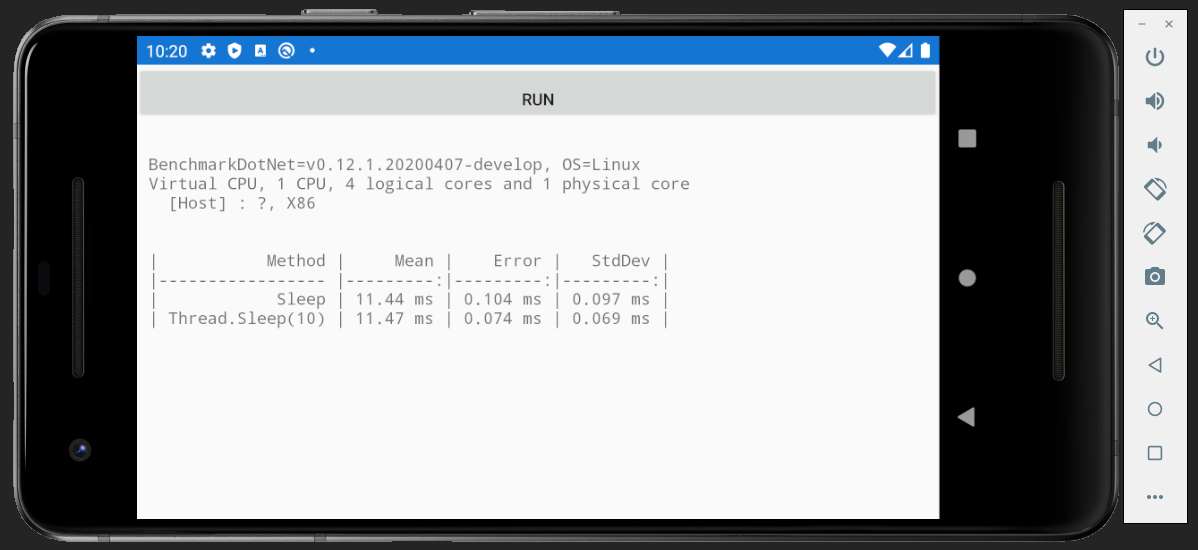
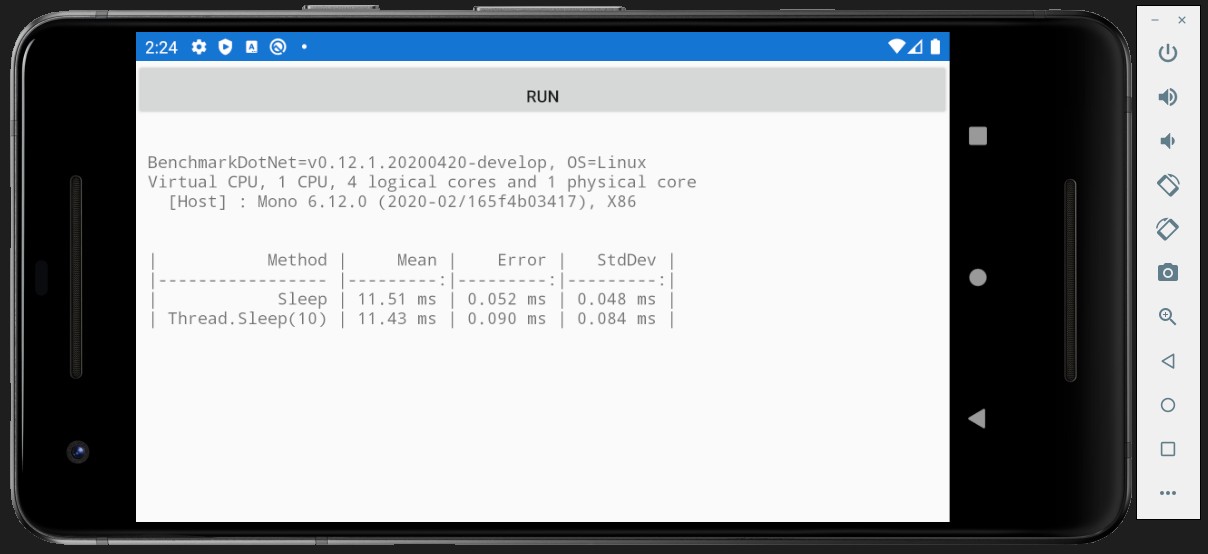
[xamarin] fix Mono runtime version detection (#1429)
Context: https://github.com/mono/mono/blob/0a37eeadece5c2cec8a6e1f43a94f0b323a22513/mcs/class/corlib/Mono/Runtime.cs#L68-L73

`Mono.Runtime.GetDisplayName` is `public` on Xamarin platforms, and so
we need to include `BindingFlags.Public` to call it via reflection.

I updated the screenshot in the documentation to reflect what the
value looks like running on Xamarin.Android in VS 2019 16.5.

I also took an attempt at fixing the documentation for Xamarin, I
think the link is just missing. Hopefully this URL will work now:

    https://benchmarkdotnet.org/articles/samples/IntroXamarin.html

diff --git a/src/BenchmarkDotNet/Portability/RuntimeInformation.cs b/src/BenchmarkDotNet/Portability/RuntimeInformation.cs
@@ -121,7 +121,7 @@ namespace BenchmarkDotNet.Portability
             if (IsMono)
             {
                 var monoRuntimeType = Type.GetType("Mono.Runtime");
-                var monoDisplayName = monoRuntimeType?.GetMethod("GetDisplayName", BindingFlags.NonPublic | BindingFlags.Static);
+                var monoDisplayName = monoRuntimeType?.GetMethod("GetDisplayName", BindingFlags.Public | BindingFlags.NonPublic | BindingFlags.Static);
                 if (monoDisplayName != null)
                 {
                     string version = monoDisplayName.Invoke(null, null)?.ToString();
